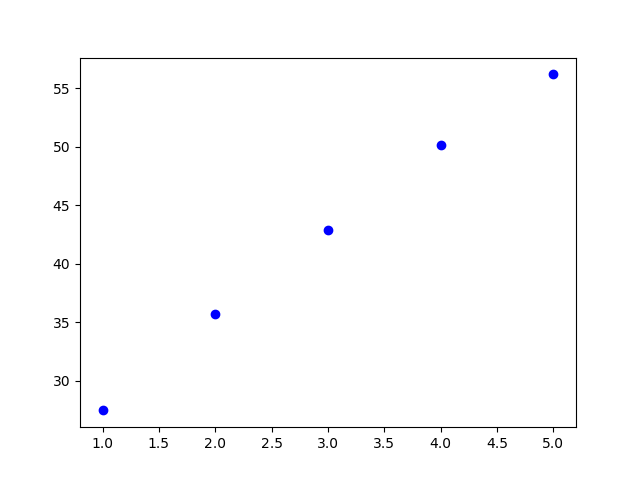
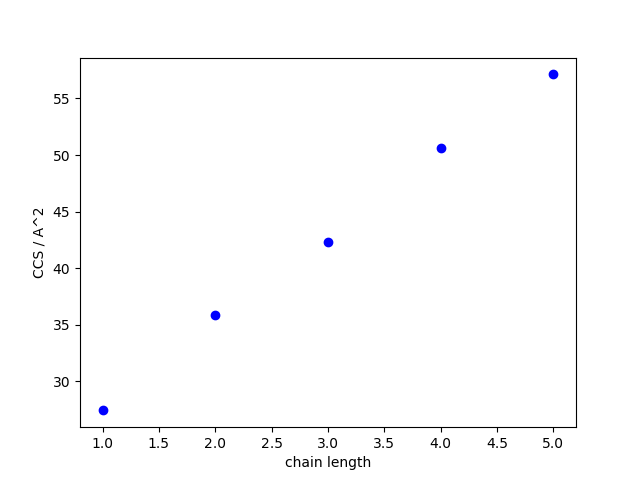
corrected alkanes example.

diff --git a/examples/alkanes/example_alkanes.py b/examples/alkanes/example_alkanes.py
@@ -5,6 +5,7 @@ alkanes = ["methane.xyz", "ethane.xyz", "propane.xyz", "butane.xyz", "pentane.xy
 ccs = [tau.pa_ccs(xyzfile=alkane) for alkane in alkanes]
 
 plt.plot([1, 2, 3, 4, 5], ccs, 'bo')
+plt.xlabel("chain length"); plt.ylabel("CCS / A^2")
 plt.savefig("example_alkanes.png")
 plt.show()
 

diff --git a/README.md b/README.md
@@ -11,12 +11,13 @@ alkanes = ["methane.xyz", "ethane.xyz", "propane.xyz", "butane.xyz", "pentane.xy
 ccs = [tau.pa_ccs(xyzfile=alkane) for alkane in alkanes]
 
 plt.plot([1, 2, 3, 4, 5], ccs, 'bo')
+plt.xlabel("chain length"); plt.ylabel("CCS / A^2")
 plt.savefig("example_alkanes.png")
 plt.show()
 ```
 produces the output:
-
-
 ![Plot of alkane CCS values](https://github.com/Laangsam/tau/blob/master/examples/alkanes/example_alkanes.png)
 
+where the CCS values are plotted on the vertical axis, and the chain length is the horizontal axis.
+It was assumed here, that the xyz files are present in the script directory.
 
